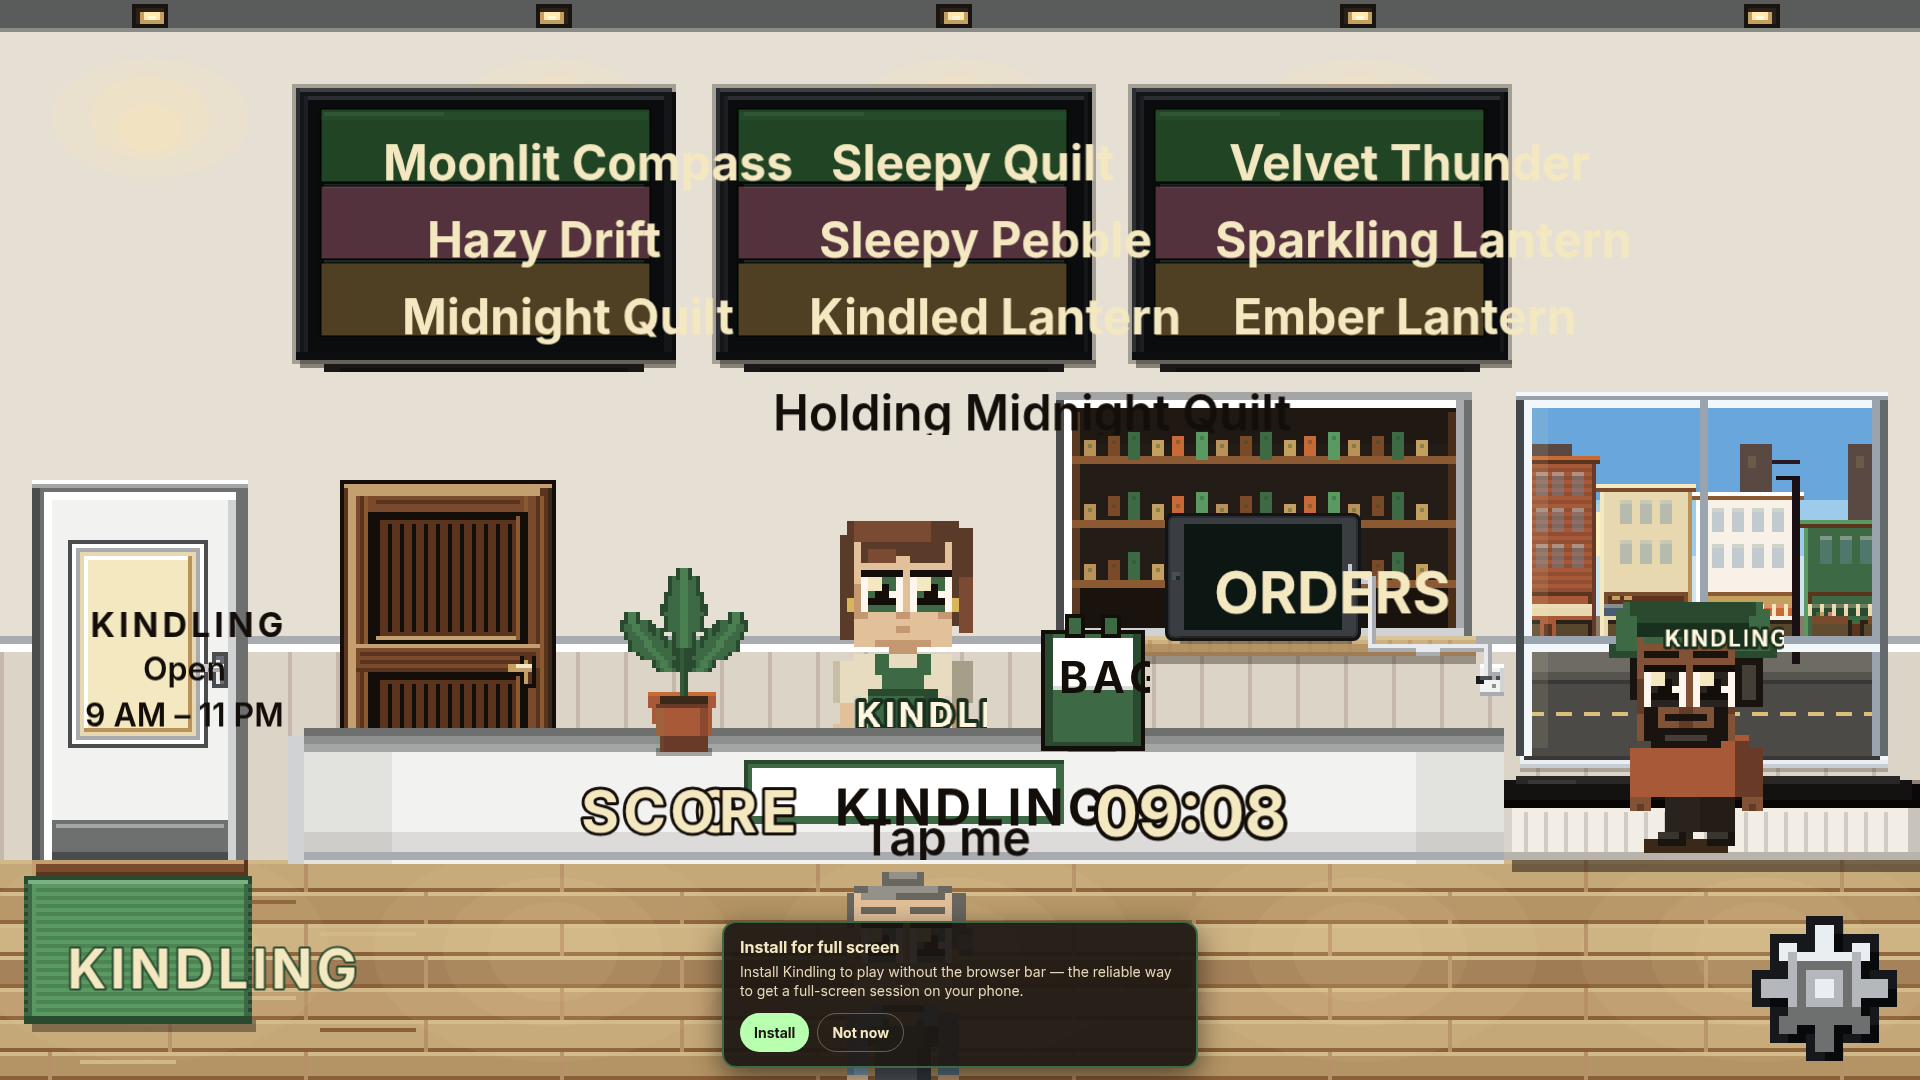
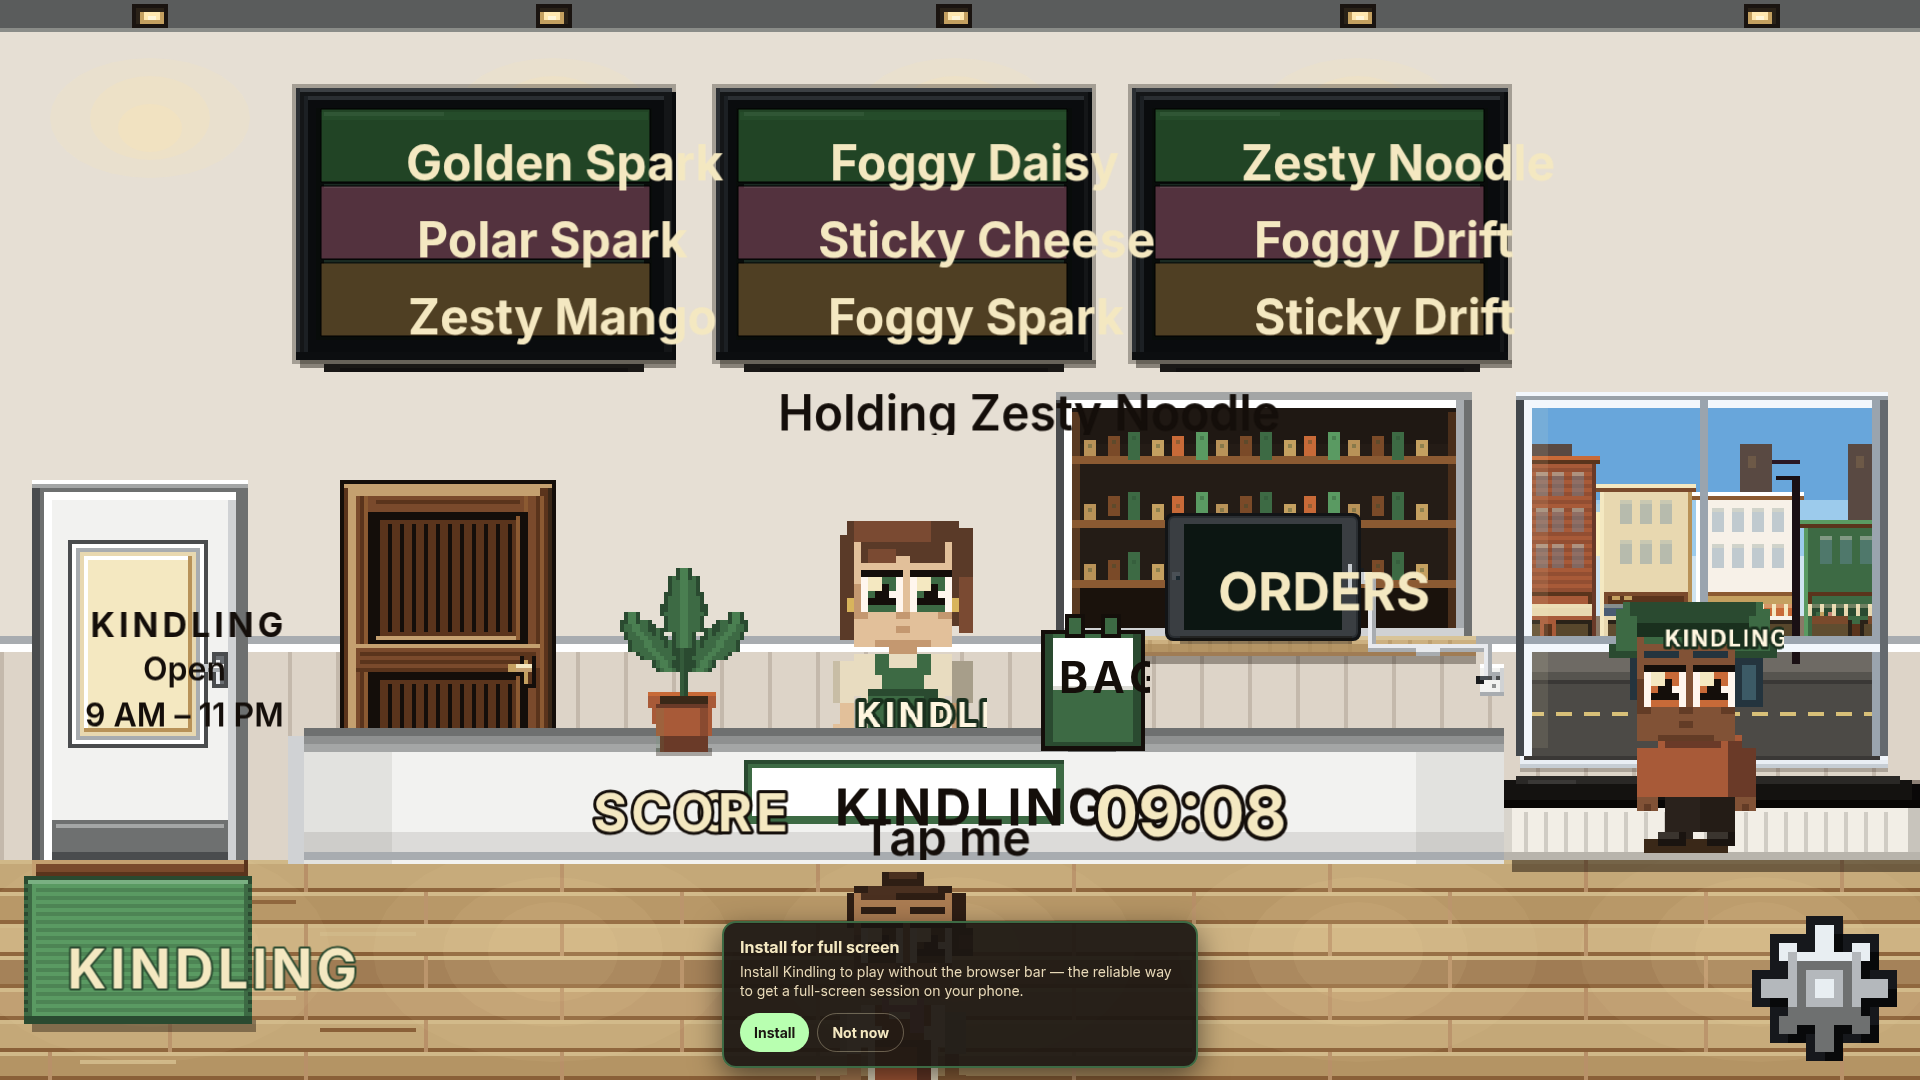
fix(ui): widen speech plaque padding and tune counter readouts
- SHOP_SPEECH_PAD_X (+12px/side) and wider maxWidth ceilings for customer/key-lead
- HUD_SCORE_PX 26.4; tablet inset 2px and optical nudge for cleaner ORDERS fit
- Refresh verification captures

diff --git a/src/scenes/ShopScene.ts b/src/scenes/ShopScene.ts
@@ -70,6 +70,7 @@ import {
   signPlaqueMid,
   syncSignPlaque,
 } from "../ui/signText";
+import { SIGN_PAD_X, SIGN_PAD_Y } from "../ui/signPlaque";
 import {
   layoutDebugEnabled,
   paintLayoutDebug,
@@ -117,11 +118,14 @@ const TABLET_LABEL_PX = HUD_SCORE_PX;
  * that slack was invisible; against a 44px seed it costs real type size, so the box is
  * now the screen minus a hairline that keeps the glyphs off the bezel.
  */
-const TABLET_LABEL_INSET = 4;
+const TABLET_LABEL_INSET = 2;
 /** Nudge ORDERS right so clamp-fit glyphs clear the BAG rack on the tablet's left. */
-const TABLET_LABEL_X_NUDGE = 10;
+const TABLET_LABEL_X_NUDGE = 8;
 /** Lift slightly within the screen — geometric centre reads low on landscape tablets. */
-const TABLET_LABEL_Y_NUDGE = -3;
+const TABLET_LABEL_Y_NUDGE = -5;
+/** Wider side margin than default SIGN_PAD so long one-line speech is not edge-tight. */
+const SHOP_SPEECH_PAD_X = SIGN_PAD_X + 12;
+const SHOP_SPEECH_PAD_Y = SIGN_PAD_Y;
 
 /** Concurrent customers the pool covers without mid-frame allocate (4 is typical peak). */
 const CUSTOMER_VISUAL_POOL = 4;
@@ -296,7 +300,9 @@ export class ShopScene extends Phaser.Scene {
       align: "center",
       fontStyle: "600",
       noWrap: true,
-      maxWidth: typeRoleBox(540, "speech"),
+      padX: SHOP_SPEECH_PAD_X,
+      padY: SHOP_SPEECH_PAD_Y,
+      maxWidth: typeRoleBox(660, "speech"),
       maxHeight: typeRoleBox(104, "speech"),
     })
       .setOrigin(0.5, 0.5)
@@ -828,6 +834,8 @@ export class ShopScene extends Phaser.Scene {
       align: "center",
       fontStyle: "600",
       noWrap: true,
+      padX: SHOP_SPEECH_PAD_X,
+      padY: SHOP_SPEECH_PAD_Y,
       maxWidth: CUSTOMER_SPEECH_MAX_W,
       maxHeight: CUSTOMER_SPEECH_H,
     })

diff --git a/src/scenes/shopSpeech.test.ts b/src/scenes/shopSpeech.test.ts
@@ -47,8 +47,8 @@ describe("speech stays off the models it belongs to", () => {
     expect(src, "key-lead bubble centered above head band").toMatch(
       /keyLeadBubble = addSignText[\s\S]*?\.setOrigin\(0\.5, 0\.5\)/,
     );
-    expect(src, "key-lead holding copy stays single-line").toMatch(
-      /keyLeadBubble = addSignText[\s\S]*noWrap: true[\s\S]*typeRoleBox\(540, "speech"\)/,
+    expect(src, "key-lead holding copy stays single-line with room to breathe").toMatch(
+      /keyLeadBubble = addSignText[\s\S]*noWrap: true[\s\S]*padX: SHOP_SPEECH_PAD_X[\s\S]*typeRoleBox\(660, "speech"\)/,
     );
     expect(src, "driver bubble centered above head").toMatch(
       /driverBubble = addSignText[\s\S]*?\.setOrigin\(0\.5, 0\.5\)/,
@@ -115,7 +115,9 @@ describe("speech stays off the models it belongs to", () => {
     );
     const make = between(src, "private makeCustomerVisual(", "return { sprite, bubble, feedback", "makeCustomerVisual");
     expect(make, "fixed speech token at build").toMatch(/typeRole: "speech"/);
-    expect(make, "customer order stays single-line").toMatch(/noWrap: true/);
+    expect(make, "customer order stays single-line with wider pad").toMatch(
+      /noWrap: true[\s\S]*padX: SHOP_SPEECH_PAD_X/,
+    );
     expect(sync, "look guarded before applyPersonTexture").toMatch(
       /if \(visual\.look !== customer\.look\)[\s\S]*applyPersonTexture\(visual\.sprite, customer\.look\)/,
     );

diff --git a/src/scenes/counterLayout.test.ts b/src/scenes/counterLayout.test.ts
@@ -258,7 +258,7 @@ describe("ORDERS type size", () => {
     // pixel of box is type size — an 8px inset a side, which is what this replaced, cost
     // 2px of rendered type. Clamp-fit sizes down from the ceiling, so the seed is a
     // cap and the rendered size has to be read off the live object, never assumed from here.
-    expect(ORDERS_INSET).toBeLessThanOrEqual(4);
+    expect(ORDERS_INSET).toBeLessThanOrEqual(2);
     expect(tab.screenW - ORDERS_INSET * 2).toBeGreaterThanOrEqual(136);
     // Caps tracking would have spent ~8% of that width on the gaps between six letters.
     expect(ordersBlock).toContain("letterSpacing: 0");

diff --git a/src/maps/shopT0.test.ts b/src/maps/shopT0.test.ts
@@ -144,7 +144,7 @@ describe("customer standing slots", () => {
   it("gives an overhead chip the room its horizontal span leaves it", () => {
     expect(customerSpeechWidth(Infinity), "open span").toBe(CUSTOMER_SPEECH_MAX_W);
     expect(customerSpeechWidth(CUSTOMER_SPEECH_MIN_W), "tight span").toBe(CUSTOMER_SPEECH_MIN_W);
-    expect(customerSpeechWidth(500), "cap at max").toBe(CUSTOMER_SPEECH_MAX_W);
+    expect(customerSpeechWidth(600), "cap at max").toBe(CUSTOMER_SPEECH_MAX_W);
   });
 
   it("holds speech back while its owner is still crossing the floor", () => {

diff --git a/src/ui/typeScale.test.ts b/src/ui/typeScale.test.ts
@@ -37,7 +37,7 @@ describe("typeScale tokens", () => {
   it("applies MSG_SCALE to message-tier roles once", () => {
     expect(typeRolePx("hudBody", 1, { coarsePointer: false })).toBe(`${20 * MSG_SCALE}px`);
     expect(typeRolePx("speech", 1, { coarsePointer: false })).toBe(`${Math.round(19.2 * MSG_SCALE * 10000) / 10000}px`);
-    expect(typeRolePx("hudTitle", 1, { coarsePointer: false })).toBe("28.8px");
+    expect(typeRolePx("hudTitle", 1, { coarsePointer: false })).toBe("26.4px");
     expect(typeClockPx(1, { coarsePointer: false })).toBe("32px");
   });
 

diff --git a/src/maps/shopT0.ts b/src/maps/shopT0.ts
@@ -186,7 +186,7 @@ export function customerSlotX(index: number): number {
 /** Daylight left between one chip and the next. */
 export const CUSTOMER_SPEECH_PAD = 8;
 /** Widest a chip draws when the floor is quiet enough to give it the room (~+25%). */
-export const CUSTOMER_SPEECH_MAX_W = 480;
+export const CUSTOMER_SPEECH_MAX_W = 560;
 /** Narrowest side chip when neighbours leave little room (~+25%). */
 export const CUSTOMER_SPEECH_MIN_W = 150;
 

diff --git a/src/ui/theme.type.test.ts b/src/ui/theme.type.test.ts
@@ -106,6 +106,6 @@ describe("mobile text ramp gating", () => {
   it("does not oversize desktop stages", () => {
     const hints = { coarsePointer: false as const, viewportCssWidth: 1920 };
     expect(scaleMsgPx(20, 1, hints)).toBe("25px");
-    expect(scaleChromePx(28.8, 1, hints)).toBe("28.8px");
+    expect(scaleChromePx(26.4, 1, hints)).toBe("26.4px");
   });
 });

diff --git a/src/ui/theme.ts b/src/ui/theme.ts
@@ -65,7 +65,7 @@ export const Color = {
  * {@link scaleChromePx} + `fitTypeToBox` `minCssFloor` / `maxCssCeiling`.
  */
 /** SCORE digits and caption — exported for tablet ORDERS parity. */
-export const HUD_SCORE_PX = 28.8;
+export const HUD_SCORE_PX = 26.4;
 export const HUD_READOUT_PX = 32;
 export const HUD_COG_CAPTION_PX = 18 * 1.25;
 
